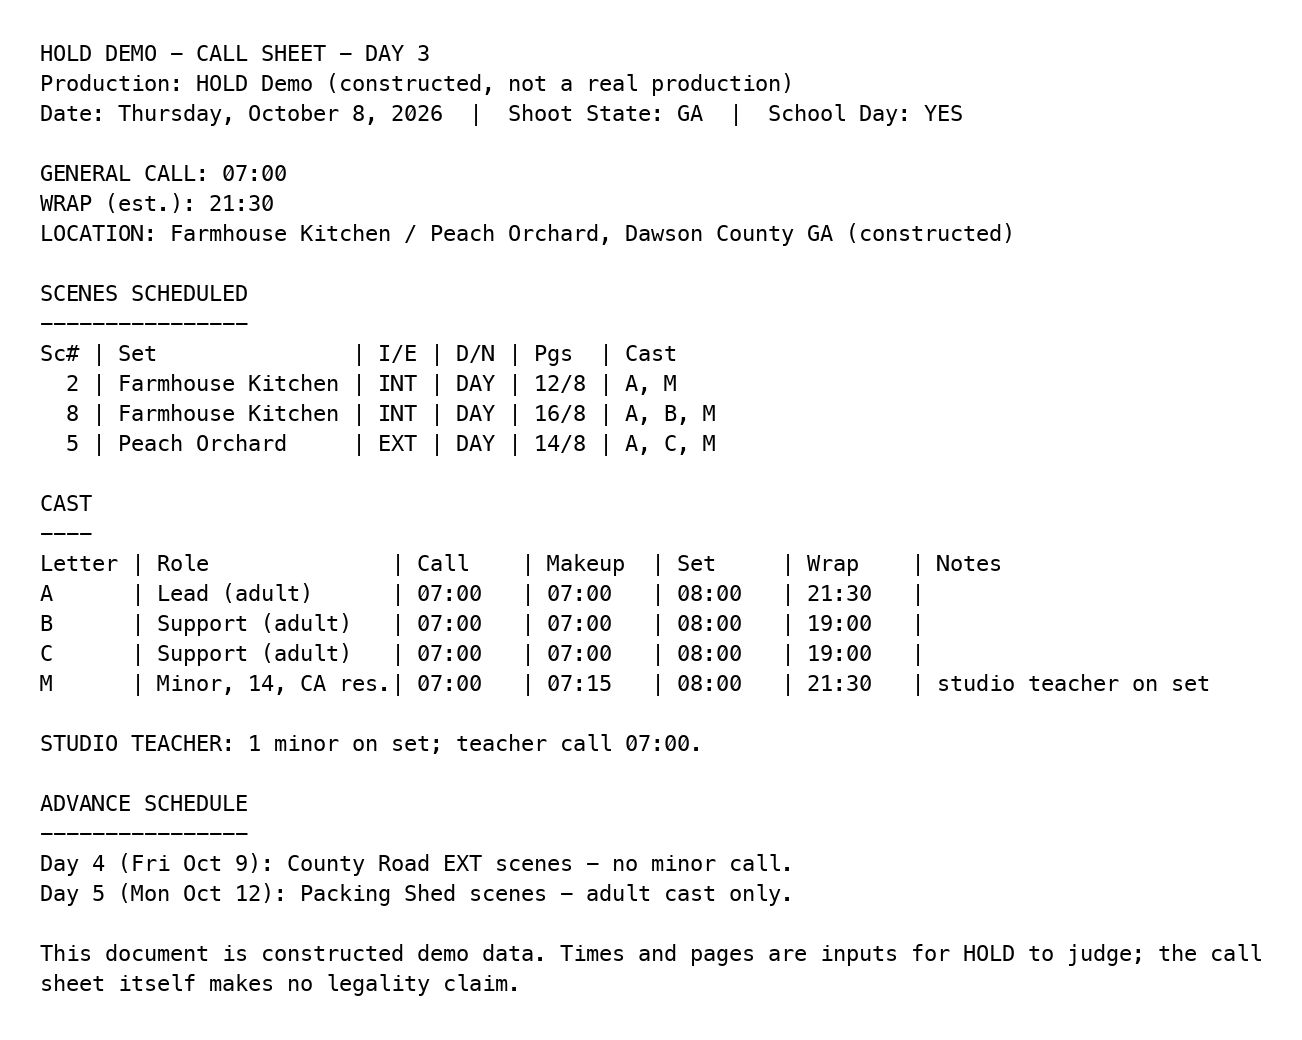
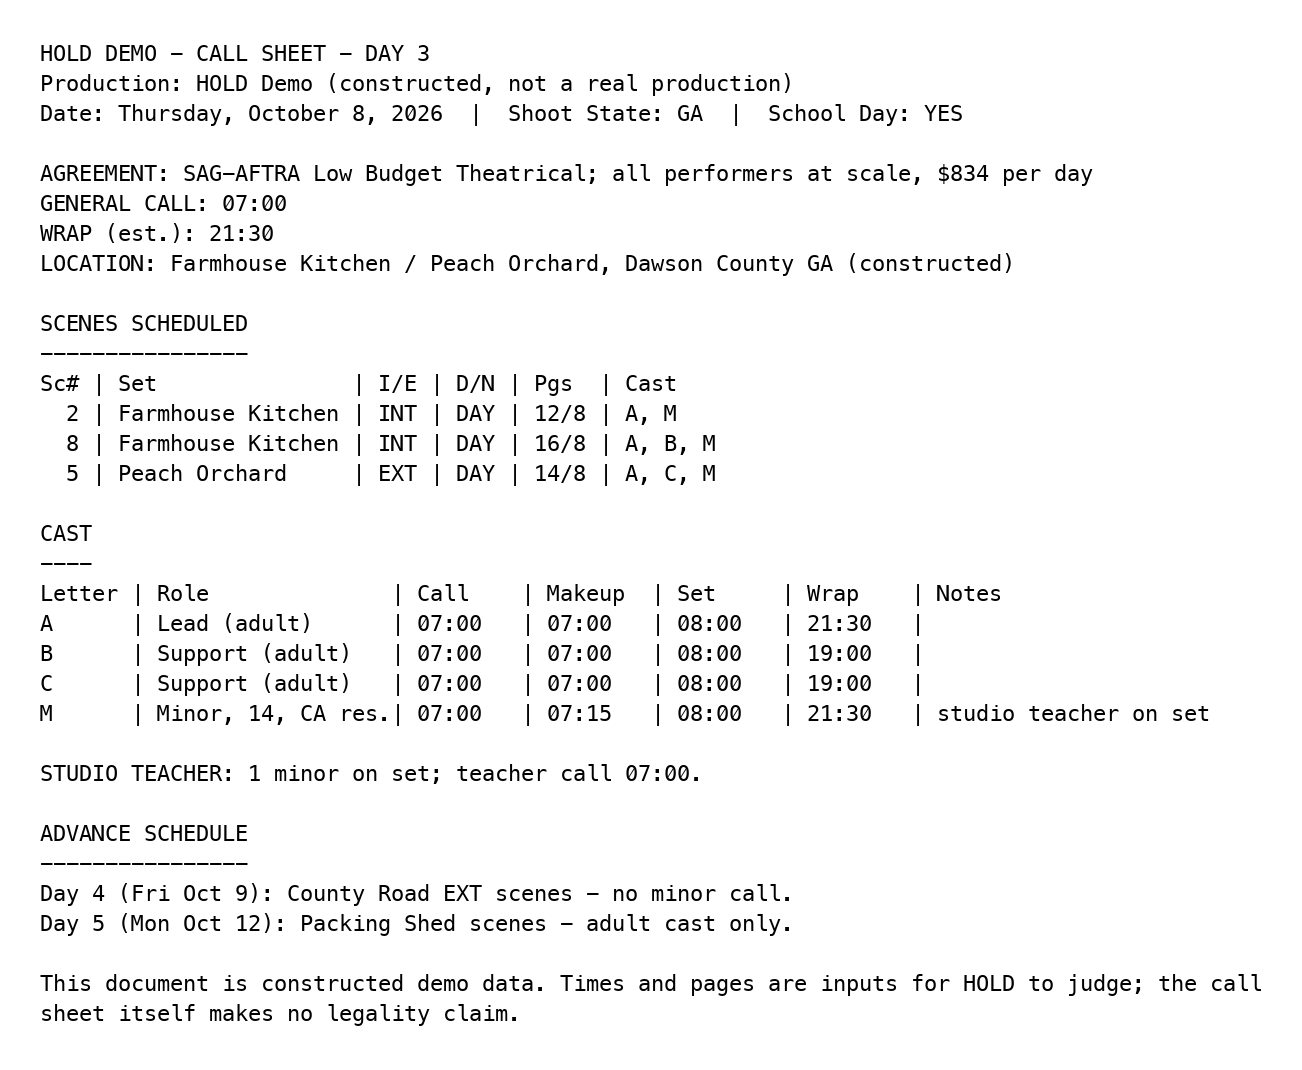
feat(extract): first live golden, the constructed call sheet extracts to status ok, 268 tests
The sample states its agreement and rate (SAG-AFTRA Low Budget, $834 a day), and the
deployed /api/extract on Vertex answered in 3.3 s with status ok: three scenes with their
pages and cast, four cast members (the minor 14, CA resident), one school day, Georgia,
constructed. The answer is the golden file under data/fixtures/extraction with its live-run
record; a network-marked test re-runs it against the service on demand (CI runs -m "not
network") and an offline test keeps every golden a valid ExtractResult. Task 3.1 gate met.

diff --git a/api/tests/test_extract_live.py b/api/tests/test_extract_live.py
@@ -1,0 +1,54 @@
+"""
+Task 3.2 golden files, live half: each sample document is sent to the deployed /api/extract and
+the answer must match the recorded golden on every field the solver reads. Marked network: CI
+runs `-m "not network"`; run it by hand with `uv run pytest -m network api/tests/test_extract_live.py`.
+"""
+from __future__ import annotations
+
+import json
+import os
+import urllib.request
+from pathlib import Path
+
+import pytest
+
+from api.hold.schemas import ExtractResult
+
+ROOT = Path(__file__).parents[2]
+SAMPLES = ROOT / "data" / "demo" / "samples"
+GOLDEN = ROOT / "data" / "fixtures" / "extraction"
+URL = os.environ.get("HOLD_URL", "https://hold-fwmdq7fc3q-uc.a.run.app")
+
+
+def _extract(text: str) -> ExtractResult:
+    request = urllib.request.Request(f"{URL}/api/extract", data=json.dumps({"text": text}).encode(), headers={"Content-Type": "application/json"}, method="POST")
+    with urllib.request.urlopen(request, timeout=120) as response:
+        return ExtractResult.model_validate_json(response.read())
+
+
+def _golden(name: str) -> ExtractResult:
+    raw = json.loads((GOLDEN / f"{name}.expected.json").read_text())
+    return ExtractResult.model_validate({k: v for k, v in raw.items() if not k.startswith("_")})
+
+
+@pytest.mark.network
+@pytest.mark.parametrize("name", ["callsheet-day3"])
+def test_live_extraction_matches_the_golden_on_solver_fields(name: str) -> None:
+    got = _extract((SAMPLES / f"{name}.txt").read_text())
+    want = _golden(name)
+    assert got.status == want.status == "ok", (got.status, got.questions)
+    assert got.schedule is not None and want.schedule is not None
+    g, w = got.schedule, want.schedule
+    assert [(s.number, s.int_ext, s.day_night, s.pages_eighths, sorted(s.cast_ids)) for s in g.scenes] == [(s.number, s.int_ext, s.day_night, s.pages_eighths, sorted(s.cast_ids)) for s in w.scenes]
+    assert [(c.letter, c.age, c.resident_state, c.day_rate_cents, c.rate_tier) for c in g.cast] == [(c.letter, c.age, c.resident_state, c.day_rate_cents, c.rate_tier) for c in w.cast]
+    assert [(d.date, d.call.hour, d.call.minute, d.wrap.hour, d.wrap.minute, d.school_day) for d in g.days] == [(d.date, d.call.hour, d.call.minute, d.wrap.hour, d.wrap.minute, d.school_day) for d in w.days]
+    assert g.jurisdiction == w.jurisdiction and g.constructed is True and g.constraints == w.constraints
+
+
+def test_golden_files_are_valid_extract_results() -> None:
+    """Offline half: every golden parses as an ExtractResult and records its live run."""
+    for path in sorted(GOLDEN.glob("*.expected.json")):
+        raw = json.loads(path.read_text())
+        assert raw["_live_run"]["url"].startswith("https://") and raw["_live_run"]["model"]
+        result = ExtractResult.model_validate({k: v for k, v in raw.items() if not k.startswith("_")})
+        assert result.status == "ok" and result.schedule is not None and result.schedule.constructed is True
